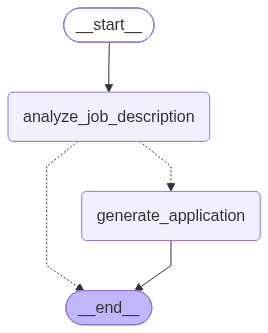
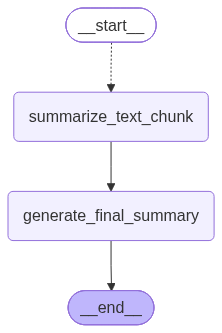
Add chapter03 Map Reduce code

diff --git a/src/chapter03/MapReduce_LangGraph.py b/src/chapter03/MapReduce_LangGraph.py
@@ -1,0 +1,172 @@
+import operator
+import sys
+from pathlib import Path
+
+sys.path.insert(0, str(Path(__file__).resolve().parent.parent))
+
+from config import API_KEY, BASE_URL, MODEL_NAME
+from langchain_core.output_parsers import StrOutputParser
+from langchain_core.prompts import ChatPromptTemplate, PromptTemplate
+from langgraph.graph import StateGraph, START, END
+from langgraph.types import Send
+from langchain_openai import ChatOpenAI
+from typing import TypedDict, Annotated
+from utils import show_graph
+
+model = ChatOpenAI(
+    api_key=API_KEY,
+    base_url=BASE_URL,
+    model=MODEL_NAME,
+)
+
+# ============================================================
+# 1. 长文本素材：Lilian Weng "LLM Powered Autonomous Agents"
+# ============================================================
+LONG_TEXT = r"""
+Building agents with LLM (large language model) as its core controller is a cool concept. Several proof-of-concepts demos, such as AutoGPT, GPT-Engineer and BabyAGI, serve as inspiring examples. The potentiality of LLM extends beyond generating well-written copies, stories, essays and programs; it can be framed as a powerful general problem solver.
+
+In a LLM-powered autonomous agent system, LLM functions as the agent's brain, complemented by several key components: Planning, Memory, and Tool use.
+
+Planning involves subgoal and decomposition — the agent breaks down large tasks into smaller, manageable subgoals, enabling efficient handling of complex tasks. It also includes reflection and refinement — the agent can do self-criticism and self-reflection over past actions, learn from mistakes and refine them for future steps, thereby improving the quality of final results.
+
+Chain of thought (CoT) has become a standard prompting technique for enhancing model performance on complex tasks. The model is instructed to "think step by step" to utilize more test-time computation to decompose hard tasks into smaller and simpler steps. Tree of Thoughts (Yao et al. 2023) extends CoT by exploring multiple reasoning possibilities at each step. It first decomposes the problem into multiple thought steps and generates multiple thoughts per step, creating a tree structure. The search process can be BFS or DFS with each state evaluated by a classifier or majority vote.
+
+Another quite distinct approach, LLM+P, involves relying on an external classical planner to do long-horizon planning. This approach utilizes the Planning Domain Definition Language (PDDL) as an intermediate interface. In this process, LLM translates the problem into "Problem PDDL", then requests a classical planner to generate a PDDL plan, and finally translates the PDDL plan back into natural language.
+
+Self-reflection is a vital aspect that allows autonomous agents to improve iteratively by refining past action decisions and correcting previous mistakes. ReAct integrates reasoning and acting within LLM by extending the action space to be a combination of task-specific discrete actions and the language space. The ReAct prompt template incorporates explicit steps for LLM to think, roughly formatted as Thought → Action → Observation, repeated many times.
+
+Reflexion is a framework to equip agents with dynamic memory and self-reflection capabilities to improve reasoning skills. Reflexion has a standard RL setup where the reward model provides a simple binary reward. After each action, the agent computes a heuristic and optionally may decide to reset the environment to start a new trial. Chain of Hindsight (CoH) encourages the model to improve on its own outputs by explicitly presenting it with a sequence of past outputs, each annotated with feedback.
+
+Memory can be defined as the processes used to acquire, store, retain, and later retrieve information. There are several types of memory: Sensory Memory (the earliest stage, lasting up to a few seconds), Short-Term Memory (working memory, capacity of about 7 items, lasts 20-30 seconds), and Long-Term Memory (stores information from days to decades with essentially unlimited capacity).
+
+In the context of LLM agents, we can roughly map: Sensory memory as learning embedding representations for raw inputs; Short-term memory as in-context learning, restricted by the finite context window length of Transformer; Long-term memory as the external vector store that the agent can attend to at query time, accessible via fast retrieval.
+
+The external memory can alleviate the restriction of finite attention span. A standard practice is to save the embedding representation of information into a vector store database that can support fast maximum inner-product search (MIPS). To optimize retrieval speed, the common choice is the approximate nearest neighbors (ANN) algorithm to return approximately top k nearest neighbors.
+
+Common ANN algorithms include: LSH (Locality-Sensitive Hashing) — introduces a hashing function such that similar input items are mapped to the same buckets with high probability; ANNOY (Approximate Nearest Neighbors Oh Yeah) — uses random projection trees; HNSW (Hierarchical Navigable Small World) — inspired by small world networks, builds hierarchical layers of small-world graphs; FAISS (Facebook AI Similarity Search) — applies vector quantization by partitioning the vector space into clusters; ScaNN (Scalable Nearest Neighbors) — uses anisotropic vector quantization.
+
+Tool use is a remarkable and distinguishing characteristic of human beings. Equipping LLMs with external tools can significantly extend the model capabilities. MRKL (Modular Reasoning, Knowledge and Language) is a neuro-symbolic architecture for autonomous agents. A MRKL system contains a collection of "expert" modules and the general-purpose LLM works as a router to route inquiries to the best suitable expert module.
+
+Both TALM (Tool Augmented Language Models) and Toolformer fine-tune a LM to learn to use external tool APIs. The dataset is expanded based on whether a newly added API call annotation can improve the quality of model outputs. ChatGPT Plugins and OpenAI API function calling are good examples of LLMs augmented with tool use capability working in practice.
+
+HuggingGPT is a framework to use ChatGPT as the task planner to select models available in HuggingFace platform according to model descriptions and summarize the response based on execution results. The system comprises 4 stages: Task planning, Model selection, Task execution, and Response generation.
+
+API-Bank is a benchmark for evaluating the performance of tool-augmented LLMs. It contains 53 commonly used API tools, a complete tool-augmented LLM workflow, and 264 annotated dialogues involving 568 API calls. This benchmark evaluates the agent's tool use capabilities at three levels: calling the API, retrieving the API, and planning beyond retrieve and call.
+
+In case studies, ChemCrow is a domain-specific example where LLM is augmented with 13 expert-designed tools to accomplish tasks across organic synthesis, drug discovery, and materials design. Human evaluations with experts showed that ChemCrow outperforms GPT-4 by a large margin, indicating a potential problem with using LLM to evaluate its own performance on domains requiring deep expertise.
+
+Generative Agents is a fun experiment where 25 virtual characters, each controlled by a LLM-powered agent, live and interact in a sandbox environment inspired by The Sims. The design combines LLM with memory, planning and reflection mechanisms. Memory stream records agents' experience; retrieval model surfaces context according to relevance, recency and importance; reflection mechanism synthesizes memories into higher level inferences over time.
+
+This simulation results in emergent social behavior, such as information diffusion, relationship memory and coordination of social events like hosting parties and inviting others.
+
+AutoGPT has drawn attention to setting up autonomous agents with LLM as the main controller. It has reliability issues given the natural language interface, but is a cool proof-of-concept demo. GPT-Engineer creates a whole repository of code given a task specified in natural language, instructed to think over smaller components to build and ask for user input to clarify questions.
+
+Key challenges include: Finite context length — the restricted context capacity limits inclusion of historical information, detailed instructions, API call context, and responses. Challenges in long-term planning and task decomposition — LLMs struggle to adjust plans when faced with unexpected errors, making them less robust compared to humans. Reliability of natural language interface — current agent systems rely on natural language as interface between LLMs and external components, but model outputs may have formatting errors and occasionally exhibit rebellious behavior.
+"""
+
+class AgentState(TypedDict):
+    text: str
+    chunk_size: int
+    overlap: int
+    summaries: Annotated[list, operator.add]
+    final_summary: str
+
+class _ChunkState(TypedDict):
+    chunk_text: str
+
+# ============================================================
+# Map prompt
+# ============================================================
+map_prompt = ChatPromptTemplate.from_messages([
+    ("human", """You are a precise text summarization assistant.
+        Read the following text segment from a technical article about LLM-powered AI agents.
+        Write a concise summary (2-3 sentences) capturing ONLY the key points from this segment.
+        Do NOT add any information not present in the text.
+
+        Text segment:
+        {text}
+
+        Summary:""")
+])
+
+# ============================================================
+# Reduce prompt
+# ============================================================
+reduce_prompt = PromptTemplate.from_template(
+    "You are given a list of summaries from different sections of an article about LLM-powered AI agents.\n"
+    "SUMMARIES:\n{summaries}\n"
+    "Based on that, prepare a comprehensive summary of the whole text."
+)
+
+async def _summarize_text_chunk(state: _ChunkState):
+    """Map 节点：对单个文本片段做摘要"""
+    chain = map_prompt | model | StrOutputParser()
+    summary = await chain.ainvoke({"text": state["chunk_text"]})
+    return {"summaries": [summary]}
+
+def _map_summaries(state: AgentState):
+    """条件边函数：切分文本，为每个片段生成 Send，触发并行 Map"""
+    chunks = []
+    start = 0
+    while start < len(state["text"]):
+        end = min(start + state["chunk_size"], len(state["text"]))
+        chunks.append(state["text"][start:end])
+        start += state["chunk_size"] - state["overlap"]
+
+    return [
+        Send("summarize_text_chunk", {"chunk_text": chunk}) for chunk in chunks
+    ]
+
+# ============================================================
+# 辅助函数：合并摘要
+# ============================================================
+def _merge_summaries(summaries: list[str]) -> str:
+    parts = []
+    for i, s in enumerate(summaries, 1):
+        parts.append(f"Summary {i}: \n{s}")
+    return "\n\n".join(parts)
+
+async def _generate_final_summary(state: AgentState):
+    """Reduce 节点：汇总所有局部摘要，生成最终摘要"""
+    merged = _merge_summaries(state["summaries"])
+    chain = reduce_prompt | model | StrOutputParser()
+    final = await chain.ainvoke({"summaries": merged})
+    return {"final_summary": final}
+
+# ============================================================
+# 构建图
+# ============================================================
+graph = StateGraph(AgentState)
+
+graph.add_node("summarize_text_chunk", _summarize_text_chunk)
+graph.add_node("generate_final_summary", _generate_final_summary)
+
+graph.add_conditional_edges(START, _map_summaries, ["summarize_text_chunk"])
+graph.add_edge("summarize_text_chunk", "generate_final_summary")
+graph.add_edge("generate_final_summary", END)
+
+app = graph.compile()
+# show_graph(app)
+
+# ============================================================
+# 运行
+# ============================================================
+import asyncio
+
+async def main():
+    result = await app.ainvoke({
+        "text": LONG_TEXT,
+        "chunk_size": 1500,
+        "overlap": 200,
+        "summaries": [],
+        "final_summary": "",
+    })
+
+    print(f"Generated {len(result['summaries'])} summaries")
+    for i, s in enumerate(result['summaries'], 1):
+        print(f"--- Summary {i} ---")
+        print(f"{s}\n")
+
+    print(f"final summary {result['final_summary']}")
+
+asyncio.run(main())

diff --git a/src/chapter03/MapReduce.py b/src/chapter03/MapReduce.py
@@ -1,0 +1,132 @@
+import sys
+from pathlib import Path
+
+sys.path.insert(0, str(Path(__file__).resolve().parent.parent))
+
+from config import API_KEY, BASE_URL, MODEL_NAME
+from langchain_core.output_parsers import StrOutputParser
+from langchain_core.prompts import ChatPromptTemplate, PromptTemplate
+from langchain_core.runnables import RunnableLambda, RunnablePassthrough
+from langchain_openai import ChatOpenAI
+
+model = ChatOpenAI(
+    api_key=API_KEY,
+    base_url=BASE_URL,
+    model=MODEL_NAME,
+)
+
+# ============================================================
+# 1. 长文本素材：Lilian Weng "LLM Powered Autonomous Agents"
+# ============================================================
+LONG_TEXT = r"""
+Building agents with LLM (large language model) as its core controller is a cool concept. Several proof-of-concepts demos, such as AutoGPT, GPT-Engineer and BabyAGI, serve as inspiring examples. The potentiality of LLM extends beyond generating well-written copies, stories, essays and programs; it can be framed as a powerful general problem solver.
+
+In a LLM-powered autonomous agent system, LLM functions as the agent's brain, complemented by several key components: Planning, Memory, and Tool use.
+
+Planning involves subgoal and decomposition — the agent breaks down large tasks into smaller, manageable subgoals, enabling efficient handling of complex tasks. It also includes reflection and refinement — the agent can do self-criticism and self-reflection over past actions, learn from mistakes and refine them for future steps, thereby improving the quality of final results.
+
+Chain of thought (CoT) has become a standard prompting technique for enhancing model performance on complex tasks. The model is instructed to "think step by step" to utilize more test-time computation to decompose hard tasks into smaller and simpler steps. Tree of Thoughts (Yao et al. 2023) extends CoT by exploring multiple reasoning possibilities at each step. It first decomposes the problem into multiple thought steps and generates multiple thoughts per step, creating a tree structure. The search process can be BFS or DFS with each state evaluated by a classifier or majority vote.
+
+Another quite distinct approach, LLM+P, involves relying on an external classical planner to do long-horizon planning. This approach utilizes the Planning Domain Definition Language (PDDL) as an intermediate interface. In this process, LLM translates the problem into "Problem PDDL", then requests a classical planner to generate a PDDL plan, and finally translates the PDDL plan back into natural language.
+
+Self-reflection is a vital aspect that allows autonomous agents to improve iteratively by refining past action decisions and correcting previous mistakes. ReAct integrates reasoning and acting within LLM by extending the action space to be a combination of task-specific discrete actions and the language space. The ReAct prompt template incorporates explicit steps for LLM to think, roughly formatted as Thought → Action → Observation, repeated many times.
+
+Reflexion is a framework to equip agents with dynamic memory and self-reflection capabilities to improve reasoning skills. Reflexion has a standard RL setup where the reward model provides a simple binary reward. After each action, the agent computes a heuristic and optionally may decide to reset the environment to start a new trial. Chain of Hindsight (CoH) encourages the model to improve on its own outputs by explicitly presenting it with a sequence of past outputs, each annotated with feedback.
+
+Memory can be defined as the processes used to acquire, store, retain, and later retrieve information. There are several types of memory: Sensory Memory (the earliest stage, lasting up to a few seconds), Short-Term Memory (working memory, capacity of about 7 items, lasts 20-30 seconds), and Long-Term Memory (stores information from days to decades with essentially unlimited capacity).
+
+In the context of LLM agents, we can roughly map: Sensory memory as learning embedding representations for raw inputs; Short-term memory as in-context learning, restricted by the finite context window length of Transformer; Long-term memory as the external vector store that the agent can attend to at query time, accessible via fast retrieval.
+
+The external memory can alleviate the restriction of finite attention span. A standard practice is to save the embedding representation of information into a vector store database that can support fast maximum inner-product search (MIPS). To optimize retrieval speed, the common choice is the approximate nearest neighbors (ANN) algorithm to return approximately top k nearest neighbors.
+
+Common ANN algorithms include: LSH (Locality-Sensitive Hashing) — introduces a hashing function such that similar input items are mapped to the same buckets with high probability; ANNOY (Approximate Nearest Neighbors Oh Yeah) — uses random projection trees; HNSW (Hierarchical Navigable Small World) — inspired by small world networks, builds hierarchical layers of small-world graphs; FAISS (Facebook AI Similarity Search) — applies vector quantization by partitioning the vector space into clusters; ScaNN (Scalable Nearest Neighbors) — uses anisotropic vector quantization.
+
+Tool use is a remarkable and distinguishing characteristic of human beings. Equipping LLMs with external tools can significantly extend the model capabilities. MRKL (Modular Reasoning, Knowledge and Language) is a neuro-symbolic architecture for autonomous agents. A MRKL system contains a collection of "expert" modules and the general-purpose LLM works as a router to route inquiries to the best suitable expert module.
+
+Both TALM (Tool Augmented Language Models) and Toolformer fine-tune a LM to learn to use external tool APIs. The dataset is expanded based on whether a newly added API call annotation can improve the quality of model outputs. ChatGPT Plugins and OpenAI API function calling are good examples of LLMs augmented with tool use capability working in practice.
+
+HuggingGPT is a framework to use ChatGPT as the task planner to select models available in HuggingFace platform according to model descriptions and summarize the response based on execution results. The system comprises 4 stages: Task planning, Model selection, Task execution, and Response generation.
+
+API-Bank is a benchmark for evaluating the performance of tool-augmented LLMs. It contains 53 commonly used API tools, a complete tool-augmented LLM workflow, and 264 annotated dialogues involving 568 API calls. This benchmark evaluates the agent's tool use capabilities at three levels: calling the API, retrieving the API, and planning beyond retrieve and call.
+
+In case studies, ChemCrow is a domain-specific example where LLM is augmented with 13 expert-designed tools to accomplish tasks across organic synthesis, drug discovery, and materials design. Human evaluations with experts showed that ChemCrow outperforms GPT-4 by a large margin, indicating a potential problem with using LLM to evaluate its own performance on domains requiring deep expertise.
+
+Generative Agents is a fun experiment where 25 virtual characters, each controlled by a LLM-powered agent, live and interact in a sandbox environment inspired by The Sims. The design combines LLM with memory, planning and reflection mechanisms. Memory stream records agents' experience; retrieval model surfaces context according to relevance, recency and importance; reflection mechanism synthesizes memories into higher level inferences over time.
+
+This simulation results in emergent social behavior, such as information diffusion, relationship memory and coordination of social events like hosting parties and inviting others.
+
+AutoGPT has drawn attention to setting up autonomous agents with LLM as the main controller. It has reliability issues given the natural language interface, but is a cool proof-of-concept demo. GPT-Engineer creates a whole repository of code given a task specified in natural language, instructed to think over smaller components to build and ask for user input to clarify questions.
+
+Key challenges include: Finite context length — the restricted context capacity limits inclusion of historical information, detailed instructions, API call context, and responses. Challenges in long-term planning and task decomposition — LLMs struggle to adjust plans when faced with unexpected errors, making them less robust compared to humans. Reliability of natural language interface — current agent systems rely on natural language as interface between LLMs and external components, but model outputs may have formatting errors and occasionally exhibit rebellious behavior.
+"""
+
+map_prompt = ChatPromptTemplate.from_messages([
+    ("human", """You are a precise text summarization assistant.
+        Read the following text segment from a technical article about LLM-powered AI agents.
+        Write a concise summary (2-3 sentences) capturing ONLY the key points from this segment.
+        Do NOT add any information not present in the text.
+        
+        Text segment:
+        {text}
+        
+        Summary:""")
+])
+
+# ============================================================
+# 2. 长文本切片，并生成HumanMessages
+# ============================================================
+def _create_input_dicts(text: str, chunk_size: int = 1500, overlap: int = 200):
+    """按字符数切分文本，返回包含 {text: chunk} 的 dict 列表"""
+    chunks = []
+    start = 0
+    while start < len(text):
+        end = min(start + chunk_size, len(text))
+        chunks.append(text[start:end])
+        start += chunk_size - overlap
+    return [{"text": chunk} for chunk in chunks]
+
+# input_dicts = _create_input_dicts(LONG_TEXT)
+map_chain = map_prompt | model | StrOutputParser()
+
+# summaries = map_chain.batch(input_dicts, config={"max_concurrency": 3})
+# print(f"total {len(summaries)} summaries")
+# for idx, summary in enumerate(summaries, 1):
+#     print(f"summary {idx}: {summary}")
+
+# 把切分步骤包装成 Runable，为后续使用LangGraph铺垫
+create_inputs_chain = RunnableLambda(lambda x: _create_input_dicts(**x))
+# 把批量Map步骤包装成 Runable，并串联
+map_step_chain = create_inputs_chain | RunnableLambda(lambda x: map_chain.batch(x, config={"max_concurrency": 3}))
+# 调用
+summaries =  map_step_chain.invoke({"text": LONG_TEXT})
+print(f"total {len(summaries)} summaries")
+for idx, summary in enumerate(summaries, 1):
+    print(f"summary {idx}: {summary}")
+
+
+def _merge_summaries(summaries: list[str], **kwargs) -> str:
+    sub_summaries = []
+    for i, summary in enumerate(summaries, 1):
+        sub_summary = (
+            f"Summary {i}: \n{summary}\n"
+        )
+        sub_summaries.append(sub_summary)
+    return "".join(sub_summaries)
+
+reduce_prompt = PromptTemplate.from_template(
+    "You are given a list of summaries.\n"
+    "SUMMARIES: \n{summaries}\n"
+    "Based on that, prepare a summary of a whole text."
+)
+
+reduce_chain = RunnableLambda(lambda x: _merge_summaries(**x)) | reduce_prompt | model | StrOutputParser()
+# final_summary = reduce_chain.invoke({"summaries": summaries})
+# print(f"final summary {final_summary}")
+
+final_chain = (
+    RunnablePassthrough.assign(summaries=map_step_chain).assign(final_summary=reduce_chain)
+    | RunnableLambda(lambda x: x["final_summary"])
+)
+
+result = final_chain.invoke({"text": LONG_TEXT})
+print(f"final result {result}")

diff --git a/src/chapter03/Self_Consistency.py b/src/chapter03/Self_Consistency.py
@@ -9,7 +9,6 @@ from langchain_core.prompts import ChatPromptTemplate, PromptTemplate
 from langchain_openai import ChatOpenAI
 from operator import itemgetter
 
-
 model = ChatOpenAI(
     api_key=API_KEY,
     base_url=BASE_URL,
